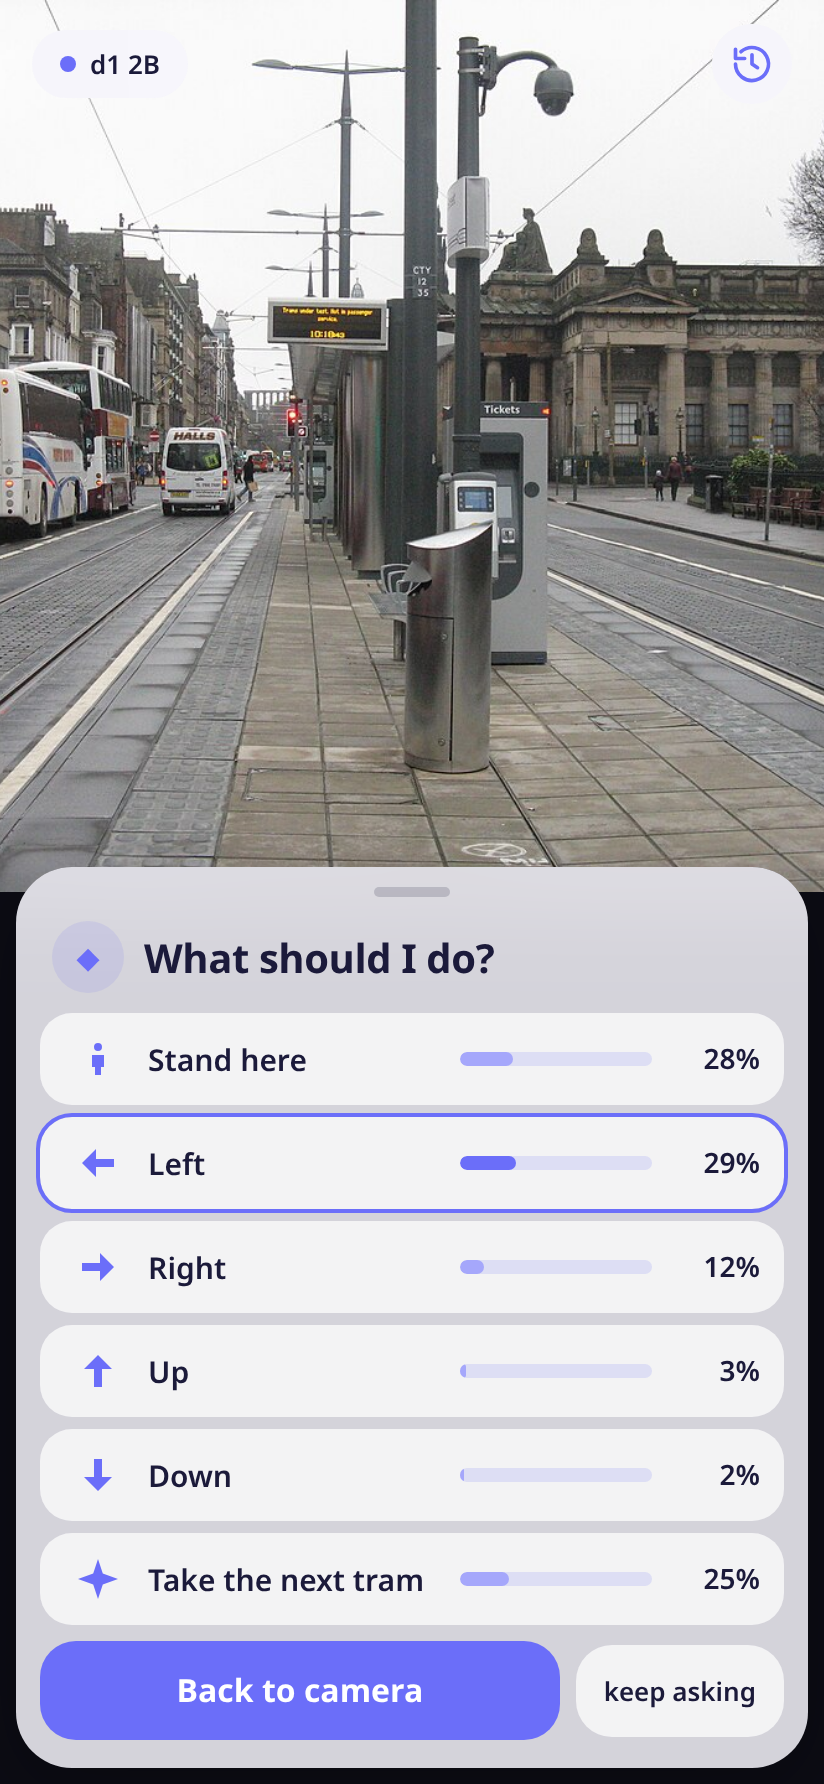
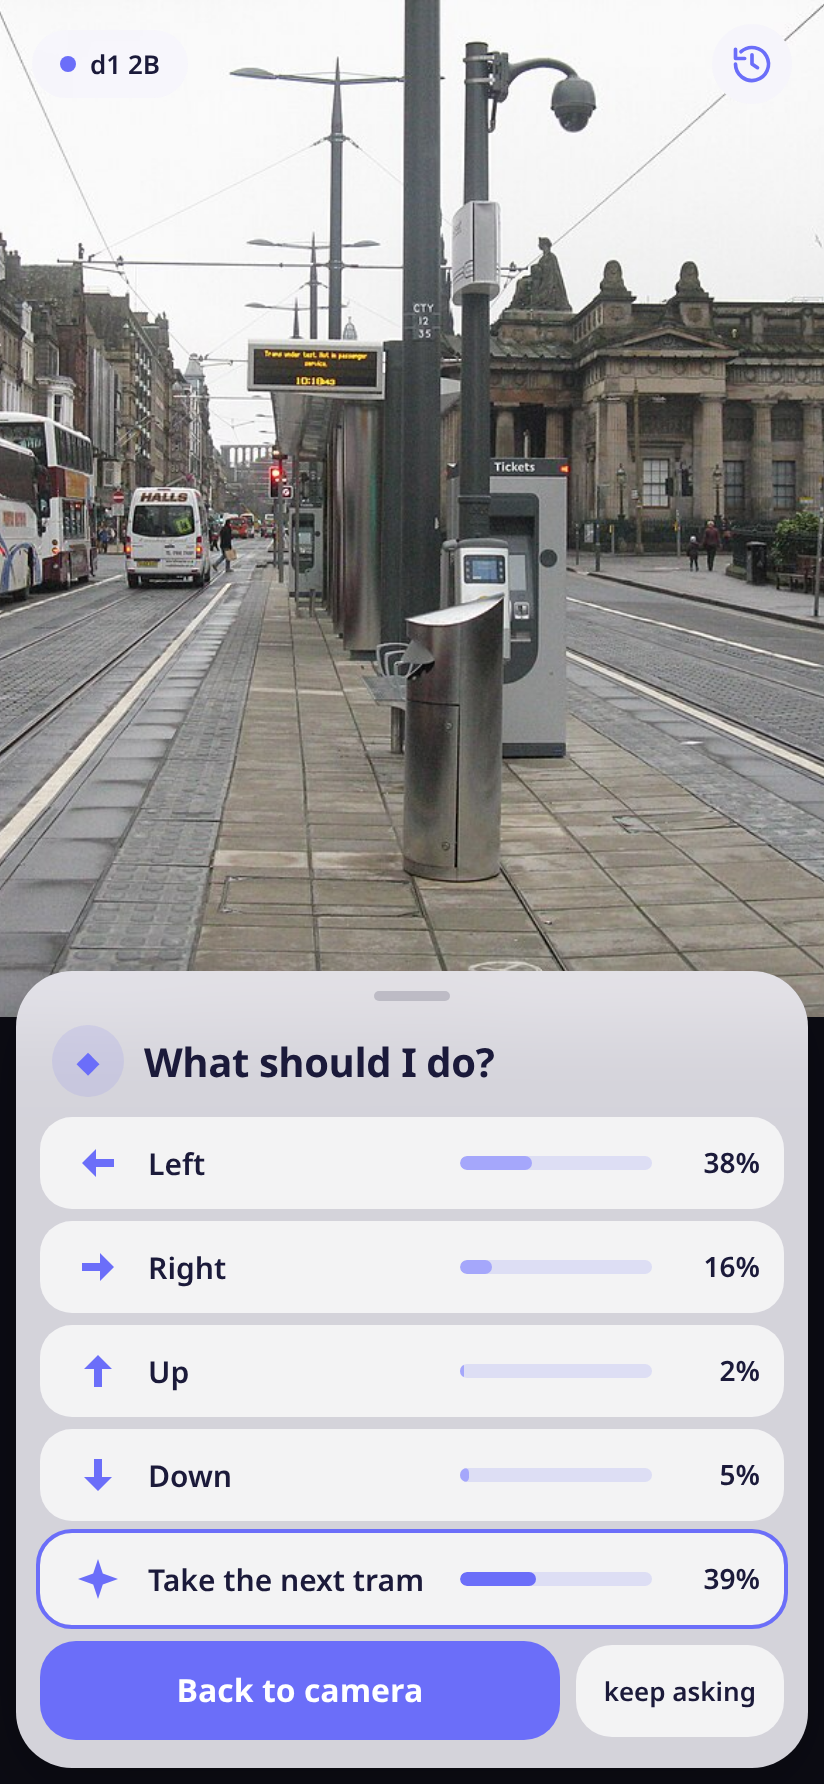
no stand here: four ways and one thing to do

diff --git a/src/App.vue b/src/App.vue
@@ -4,10 +4,9 @@ import { MODELS, type ModelSpec } from './models'
 import { decide, download, isDownloaded, isNative, load } from './native'
 import { ACTIONS, ASK_DECISION, ASK_THING, DIRECTIONS } from './actions'
 
-// One frame, one decision: the five ways to go, or the one thing worth doing here. The model does not have to
+// One frame, one decision: the four ways to go, or the one thing worth doing here. The model does not have to
 // pick the thing. How the thing is found depends on the model (models.ts), and so does the number of calls.
 const ICONS: Record<string, string> = {
-  'Stand here': 'M12 4a2 2 0 1 0 0 4 2 2 0 0 0 0-4zm-3 6h6v6h-1.5v4h-3v-4H9z',
   Left: 'M11 5 4 12l7 7v-5h9v-4h-9z',
   Right: 'M13 5l7 7-7 7v-5H4v-4h9z',
   Up: 'M5 11l7-7 7 7h-5v9h-4v-9z',
@@ -53,7 +52,7 @@ function among(p: Probs, keys: string[]): Probs {
   return Object.fromEntries(keys.map((k) => [k, (p[k] ?? 0) / sum]))
 }
 
-// the rows of the decision: the five ways, then the one thing to do
+// the rows of the decision: the four ways, then the one thing to do
 const rows = computed(() => {
   const p = last.value?.decision
   const win = p ? best(p)[0] : ''
@@ -163,7 +162,7 @@ async function ask() {
     let shot: Shot
     if (spec.ask === 'all') {
       // one call: the ways to go and every action. The strongest action is the one thing to do; the decision
-      // is between it and the five ways.
+      // is between it and the four ways.
       const d = await decide(image, { decision: { instructions: ASK_DECISION, options: [...DIRECTIONS, ...ACTIONS.map((a) => a.action)] } })
       const p = d.answers.decision.probabilities!
       const action = best(among(p, ACTIONS.map((a) => a.action)))[0]

diff --git a/src/actions.ts b/src/actions.ts
@@ -35,6 +35,7 @@ export const ACTIONS: Action[] = [
   { id: 'hands', action: 'Wash your hands', thing: 'a sink', prior: 2.53e-6 },
 ]
 
-export const DIRECTIONS = ['Stand here', 'Left', 'Right', 'Up', 'Down']
+// No "Stand here": offered, the models pick it most of the time, and standing is not a decision worth asking for.
+export const DIRECTIONS = ['Left', 'Right', 'Up', 'Down']
 export const ASK_THING = 'Which of these things can be seen in this photo?'
 export const ASK_DECISION = 'Looking at this photo, what should the person do next?'

diff --git a/src/style.css b/src/style.css
@@ -79,4 +79,4 @@ body { background: #0c0c14; color: var(--ink); font: 15px/1.35 var(--sans); over
 .seen .tag.none { color: var(--muted); font-weight: 500; }
 
 /* the demo view: a landscape photo shown whole above the sheet, not cropped to the phone and half hidden */
-.stage img.still.demo { height: 50%; }
+.stage img.still.demo { height: 57%; }

diff --git a/README.md b/README.md
@@ -3,7 +3,7 @@
 No more decisions!
 
 You walk around the world, point your phone at it, and a decision model tells you what to do
-next. Where to go: left 29 %, stand here 28 %. Or the one thing worth doing right here: take the
+next. Where to go: left 38 %, right 16 %. Or the one thing worth doing right here: take the
 next tram, sit down, go inside, talk to someone. The model does not have to pick it, but when it
 does, that is what you do. You just enjoy the walk.
 
@@ -13,7 +13,7 @@ no chatting, no explaining, just probabilities.
 
 <p>
 <img src="docs/sit-down.png" width="270" alt="A bench by a path: Sit down, 79 %">
-<img src="docs/tram-stop.png" width="270" alt="A tram stop: Left 29 %, Stand here 28 %, Take the next tram 25 %">
+<img src="docs/tram-stop.png" width="270" alt="A tram stop: Take the next tram 39 %, Left 38 %">
 </p>
 
 The app's screen in a desktop browser, with the answers d1 2B gave for these two photos through the
@@ -36,8 +36,8 @@ Android only for now.
 
 ## What it does
 
-- Takes one small frame from the camera (320 px) and asks the model for one decision: stand here,
-  left, right, up, down, or the one thing worth doing here. The model does not have to pick the thing.
+- Takes one small frame from the camera (320 px) and asks the model for one decision: left,
+  right, up, down, or the one thing worth doing here. The model does not have to pick the thing.
 - The thing is one of 24: take a photo, sit down, go inside, talk to someone, take the next tram,
   lie down, look at the art, open a book, eat something… Which actions, and how to ask each model,
   was measured on 672 photos of 56 kinds of places: [calibration](calibration/).
